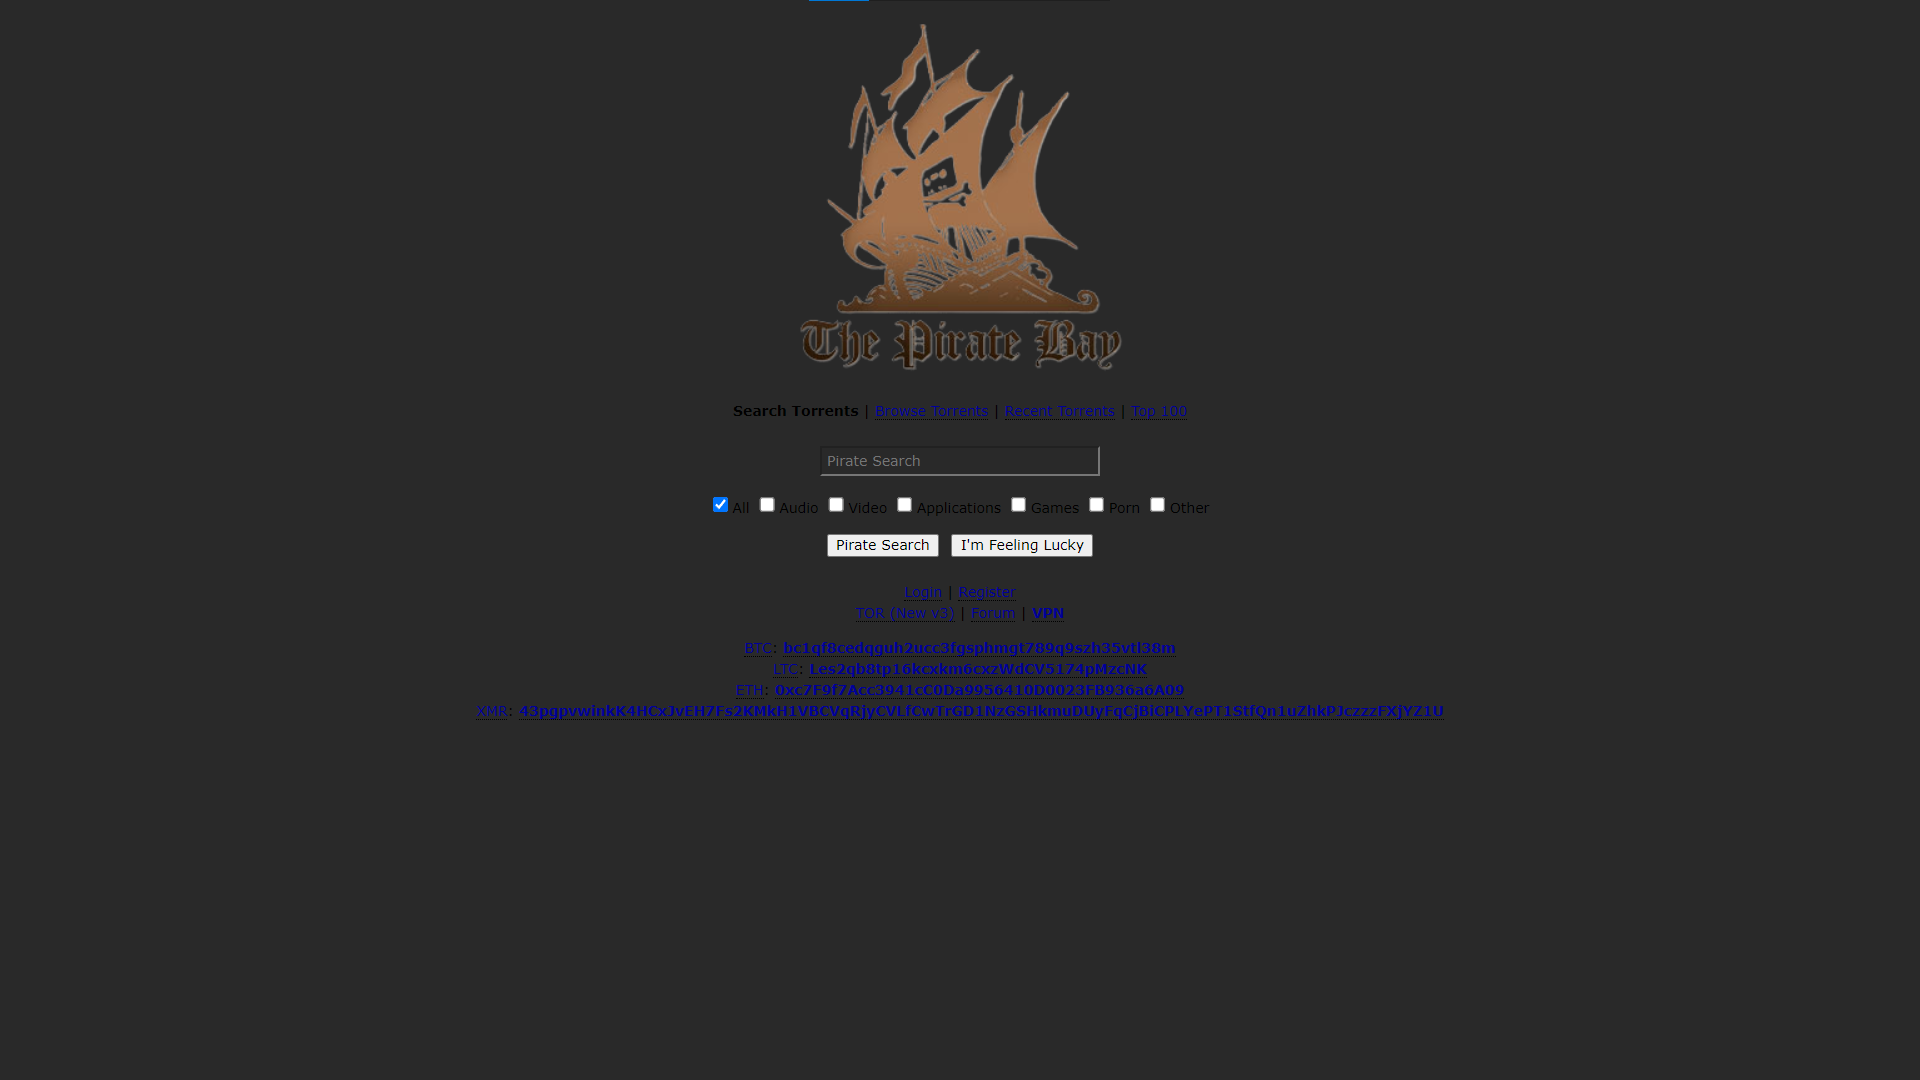
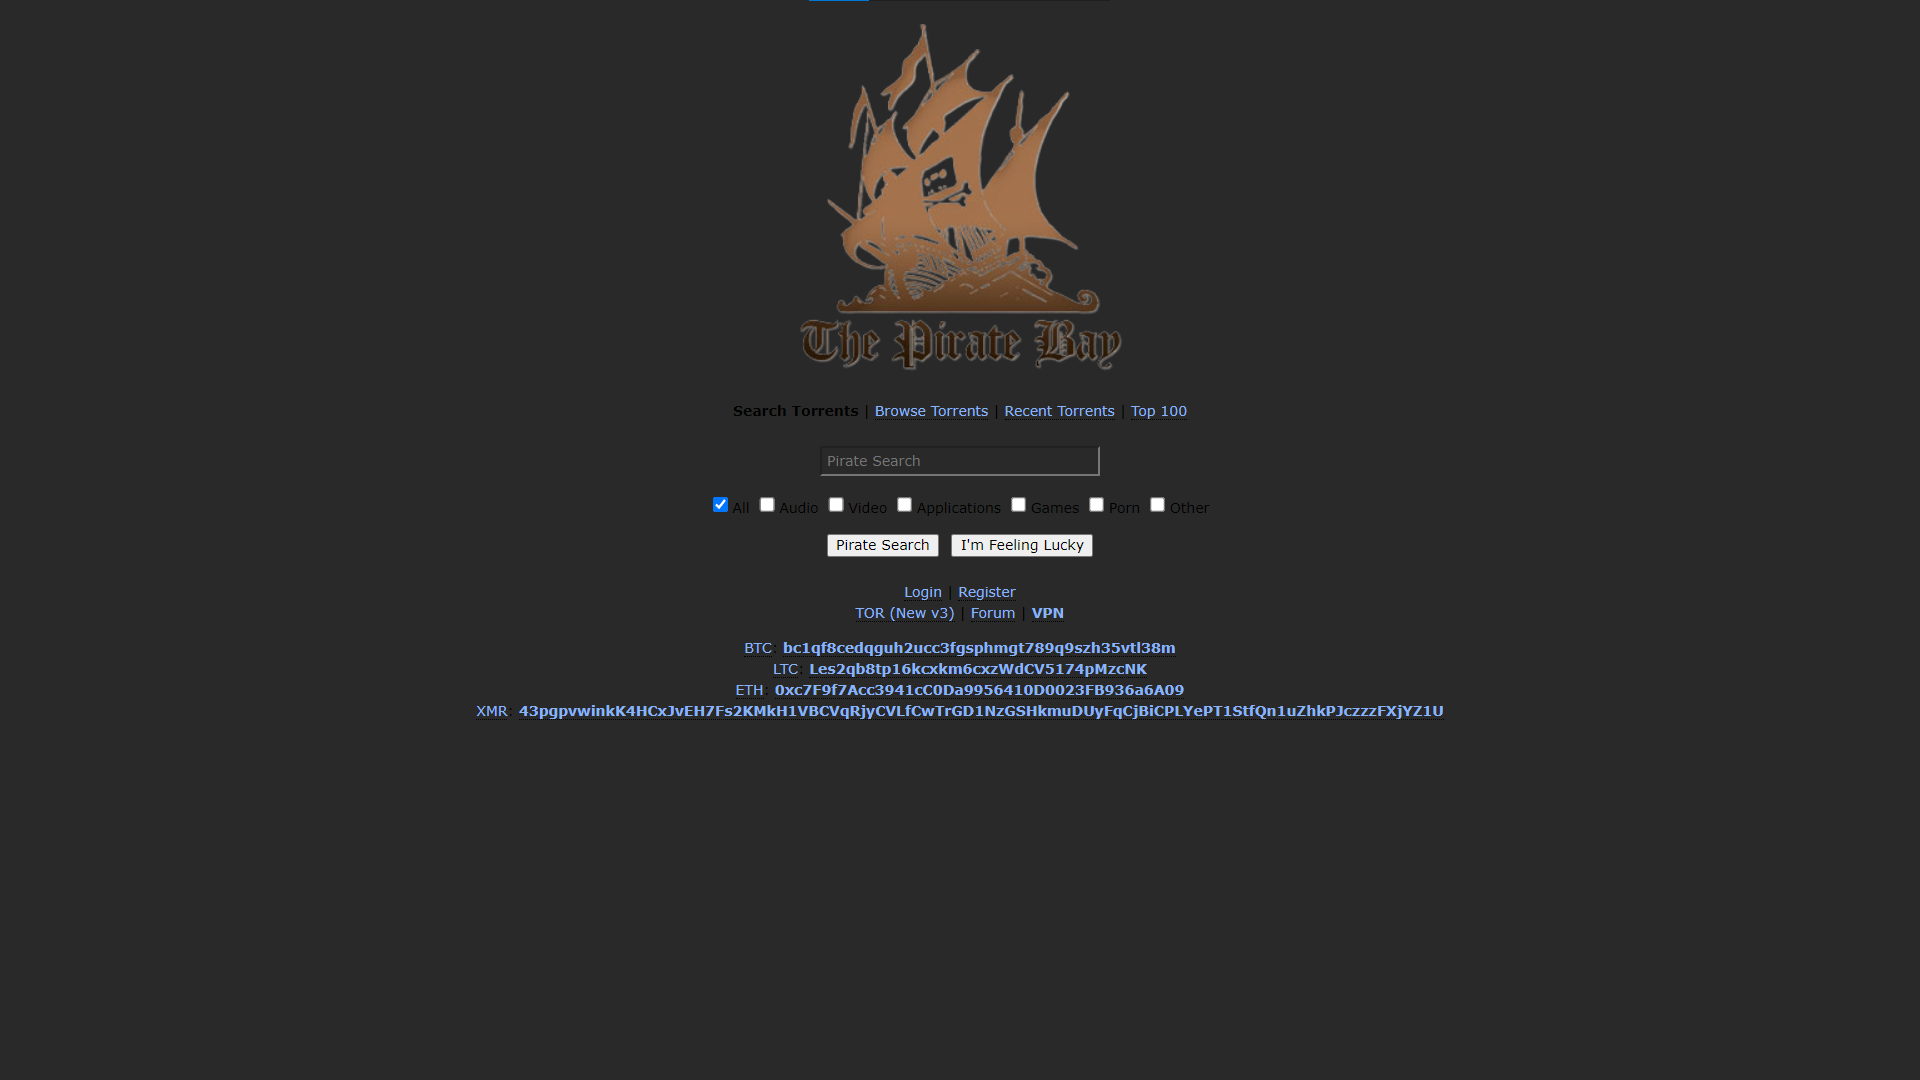
final update (hopefully)

Changed region(s): [[0.25, 0.5194, 0.75, 0.6722], [0.4688, 0.3667, 0.625, 0.3972]]

diff --git a/src/main.js b/src/main.js
@@ -1,9 +1,15 @@
 try{document.querySelector('body').style.backgroundColor = '#292929';}catch(e){}
 try{document.querySelector('input').style.backgroundColor = '#292929';}catch(e){}
 try{document.getElementById('cat').style.backgroundColor = '#292929';}catch(e){}
-try{const nodeList = document.querySelectorAll('.list-entry'); // copied from w3schools lmfao
+try{document.getElementById('description_container').style.backgroundColor = '#292929';}catch(e){}
+try{document.getElementById('description_text').style.backgroundColor = '#292929';}catch(e){}
+try{document.getElementById('filelist').style.backgroundColor = '#292929';}catch(e){}
+try{const nodeList = document.querySelectorAll('.list-entry');
 for (let i = 0; i < nodeList.length; i++) {
-  nodeList[i].style.backgroundColor = "#292929";}}catch(e){}
+  nodeList[i].style.backgroundColor = '#292929';}}catch(e){}
+try{const nodeList = document.querySelectorAll('a');
+for (let i = 0; i < nodeList.length; i++) {
+  nodeList[i].style.color = '#8ab4f8';}}catch(e){}
 try{document.getElementsByClassName('list-item list-header item-type')[0].style.backgroundColor = '#292929';}catch(e){}
 try{document.getElementsByClassName('list-item list-header item-name')[0].style.backgroundColor = '#292929';}catch(e){}
 try{document.getElementsByClassName('list-item list-header item-uploaded')[0].style.backgroundColor = '#292929';}catch(e){}
